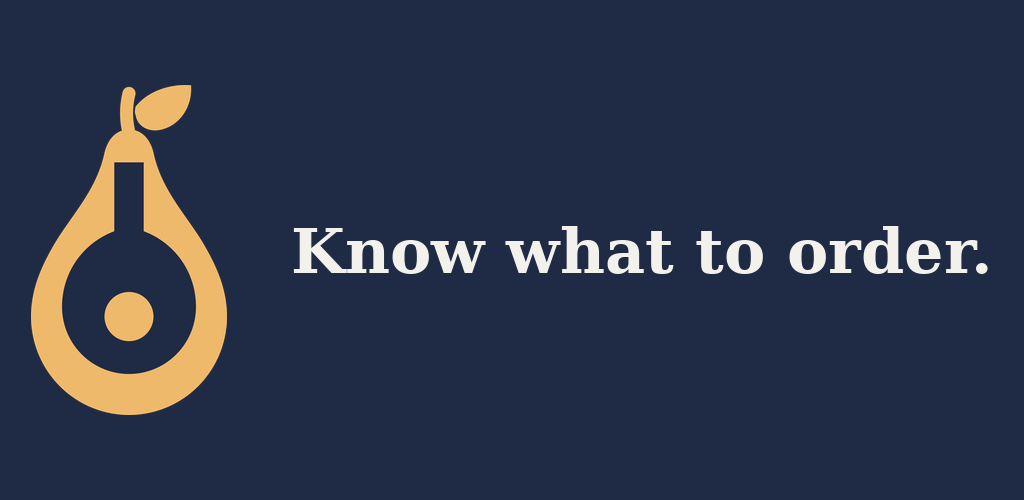
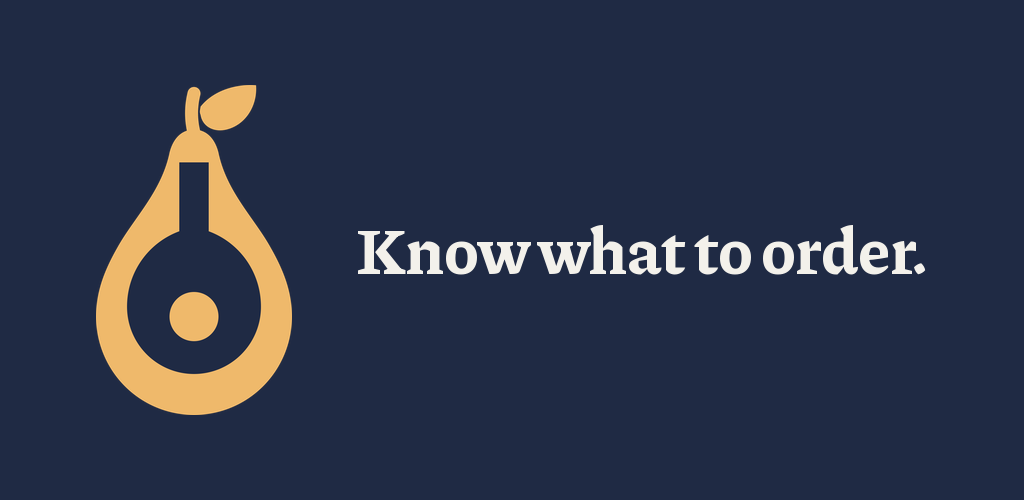
PairMe brand polish: pear tint ramp off #EFB96B + feature graphic in Piazzolla
Item 6: a 5-step pear tint ramp derived from #EFB96B mixed with white
(pear-50 #FDF8F0, 100 #FCF1E1, 200 #F9E4C7, 300 #F6D6A9, 400 #F2C789, base 500
#EFB96B), defined as --color-pear-* in the landing :root. The old peach tints
(#FFF7EC/#FFEDD6/#FFDCAB/#FFF4E4/#FFE3BC/#FFEBCE) are retired and swept from both
apps and the landing, so tinted backgrounds (selected states, chips, cards) no
longer drift per-component. Zero residual old tints.

Item 5: the Google Play feature graphic now uses Piazzolla Bold, the same
display font Desi's landing loads (--font-display), replacing the DejaVu Serif
stand-in. The store listing and the site now match.

Verified: vite build clean, app suite green, no em dashes.

Claude-Session: https://claude.ai/code/session_0119A8iN5G2gy7vmANopPWUa

Changed region(s): [[0.0312, 0.15, 0.9688, 0.84]]

diff --git a/apps/pairme-landing/index.html b/apps/pairme-landing/index.html
@@ -77,7 +77,7 @@
 <div style="font:700 21px/1.2 var(--font-body);color:#1C1C1A;margin-top:7px">Domaine Trapet</div>
 <div style="font:500 16px/1.3 var(--font-body);color:#1C1C1A;margin-top:3px">Gevrey-Chambertin</div>
 <div style="font:400 13px/1.5 var(--font-body);color:#6B6B66;margin-top:5px">pinot noir · Burgundy · $234</div>
-<div style="background:#FFF4E4;border:1px solid #EFB96B;border-radius:12px;padding:12px;margin-top:12px;display:flex;gap:12px;align-items:center">
+<div style="background:#FCF1E1;border:1px solid #EFB96B;border-radius:12px;padding:12px;margin-top:12px;display:flex;gap:12px;align-items:center">
 <button onclick="pmSay()" style="flex:none;width:44px;height:44px;border-radius:999px;border:2px solid #1F2A44;background:#fff;cursor:pointer;display:flex;align-items:center;justify-content:center" class="h2" aria-label="Play the pronunciation">
 <svg width="20" height="20" viewBox="0 0 24 24" fill="none" stroke="#1F2A44" strokeWidth="1.8" strokeLinecap="round" strokeLinejoin="round"><path d="M11 5 L6 9 H3 v6 h3 l5 4 Z"></path><path d="M15.5 8.5a5 5 0 0 1 0 7"></path><path d="M18.5 5.5a9 9 0 0 1 0 13"></path></svg>
 </button>
@@ -116,14 +116,14 @@
 </div>
 <div style="font:600 16px var(--font-display);color:#1C1C1A;margin-top:9px">What do you already love?</div>
 <div style="display:flex;flex-wrap:wrap;gap:7px;margin-top:12px">
-<span style="border:1px solid #1F2A44;background:#FFF4E4;border-radius:999px;padding:8px 13px;font:500 12.5px var(--font-body)">Burgundy</span>
-<span style="border:1px solid #1F2A44;background:#FFF4E4;border-radius:999px;padding:8px 13px;font:500 12.5px var(--font-body)">Loire whites</span>
+<span style="border:1px solid #1F2A44;background:#FCF1E1;border-radius:999px;padding:8px 13px;font:500 12.5px var(--font-body)">Burgundy</span>
+<span style="border:1px solid #1F2A44;background:#FCF1E1;border-radius:999px;padding:8px 13px;font:500 12.5px var(--font-body)">Loire whites</span>
 <span style="border:1px solid #E3E1DB;background:#fff;border-radius:999px;padding:8px 13px;font:500 12.5px var(--font-body);color:#6B6B66">Barolo</span>
 <span style="border:1px solid #E3E1DB;background:#fff;border-radius:999px;padding:8px 13px;font:500 12.5px var(--font-body);color:#6B6B66">orange wine</span>
 </div>
 <div style="font:600 10.5px var(--font-body);color:#6B6B66;letter-spacing:.07em;text-transform:uppercase;margin-top:16px">Rather not</div>
 <div style="display:flex;flex-wrap:wrap;gap:7px;margin-top:8px">
-<span style="border:1px solid #1F2A44;background:#FFF4E4;border-radius:999px;padding:8px 13px;font:500 12.5px var(--font-body)">heavy oak</span>
+<span style="border:1px solid #1F2A44;background:#FCF1E1;border-radius:999px;padding:8px 13px;font:500 12.5px var(--font-body)">heavy oak</span>
 <span style="border:1px solid #E3E1DB;background:#fff;border-radius:999px;padding:8px 13px;font:500 12.5px var(--font-body);color:#6B6B66">sweet</span>
 </div>
 </div>
@@ -174,7 +174,7 @@
 </div>
 <div style="background:#FBFAF7;border:1px solid #E3E1DB;border-radius:14px;padding:16px">
 <div style="font:600 10.5px var(--font-body);color:#6B6B66;letter-spacing:.07em;text-transform:uppercase">Starters</div>
-<div style="border:1px solid #1F2A44;background:#FFF4E4;border-radius:10px;padding:11px;margin-top:9px">
+<div style="border:1px solid #1F2A44;background:#FCF1E1;border-radius:10px;padding:11px;margin-top:9px">
 <div style="display:flex;justify-content:space-between;gap:10px">
 <span style="font:500 13.5px var(--font-body);color:#1C1C1A">Moules en cassoulette</span>
 <span style="font:400 12px var(--font-body);color:#6B6B66;flex:none">$22</span>
@@ -189,7 +189,7 @@
 <div style="font:400 11.5px/1.5 var(--font-body);color:#6B6B66;margin-top:4px">garlic parsley butter, baguette</div>
 </div>
 <div style="font:600 10.5px var(--font-body);color:#6B6B66;letter-spacing:.07em;text-transform:uppercase;margin-top:14px">Mains</div>
-<div style="border:1px solid #1F2A44;background:#FFF4E4;border-radius:10px;padding:11px;margin-top:9px">
+<div style="border:1px solid #1F2A44;background:#FCF1E1;border-radius:10px;padding:11px;margin-top:9px">
 <div style="display:flex;justify-content:space-between;gap:10px">
 <span style="font:500 13.5px var(--font-body);color:#1C1C1A">Steak frites Aquitaine</span>
 <span style="font:400 12px var(--font-body);color:#6B6B66;flex:none">$48</span>
@@ -213,7 +213,7 @@
 <div style="border:1.5px solid #1F2A44;background:#fff;border-radius:12px;padding:14px">
 <div style="display:flex;justify-content:space-between;align-items:center;gap:10px">
 <span style="font:600 10px var(--font-body);color:#8A5A18;letter-spacing:.07em;text-transform:uppercase">Suited to you</span>
-<span style="font:700 10px var(--font-body);color:#1F2A44;background:#FFE3BC;border-radius:999px;padding:4px 9px">presenting</span>
+<span style="font:700 10px var(--font-body);color:#1F2A44;background:#F9E4C7;border-radius:999px;padding:4px 9px">presenting</span>
 </div>
 <div style="display:flex;justify-content:space-between;gap:12px;align-items:flex-start;margin-top:9px">
 <div>
@@ -238,7 +238,7 @@
 </div>
 </div>
 
-<div class="pm-step" style="position:sticky;top:134px;min-height:clamp(320px,calc(100vh - 150px),520px);display:flex;align-items:center;background:#FFF7EC;border:1.5px solid #EFB96B;border-radius:20px;box-shadow:0 -2px 0 #E5A44F, 0 20px 50px -26px rgba(31,42,68,.5);overflow:hidden">
+<div class="pm-step" style="position:sticky;top:134px;min-height:clamp(320px,calc(100vh - 150px),520px);display:flex;align-items:center;background:#FDF8F0;border:1.5px solid #EFB96B;border-radius:20px;box-shadow:0 -2px 0 #E5A44F, 0 20px 50px -26px rgba(31,42,68,.5);overflow:hidden">
 <div style="width:100%;display:grid;grid-template-columns:repeat(auto-fit,minmax(280px,1fr));gap:clamp(20px,3vw,40px);padding:clamp(22px,3vw,34px)">
 <div>
 <div style="display:flex;align-items:center;gap:12px">
@@ -248,7 +248,7 @@
 <p style="margin:14px 0 0;font:400 15px/1.75 var(--font-body);color:#6B6B66;text-wrap:pretty">How to say it, what it means, why it works. Everything a sommelier knows, minus the hundreds of hours, the thousands of dollars, and the eyebrow.</p>
 </div>
 <div style="background:#fff;border:1px solid #EFB96B;border-radius:14px;padding:16px;display:flex;gap:14px;align-items:center">
-<button onclick="pmSay()" style="flex:none;width:56px;height:56px;border-radius:999px;border:2px solid #1F2A44;background:#FFF7EC;cursor:pointer;display:flex;align-items:center;justify-content:center" class="h3" aria-label="Play the pronunciation">
+<button onclick="pmSay()" style="flex:none;width:56px;height:56px;border-radius:999px;border:2px solid #1F2A44;background:#FDF8F0;cursor:pointer;display:flex;align-items:center;justify-content:center" class="h3" aria-label="Play the pronunciation">
 <svg width="25" height="25" viewBox="0 0 24 24" fill="none" stroke="#1F2A44" strokeWidth="1.8" strokeLinecap="round" strokeLinejoin="round"><path d="M11 5 L6 9 H3 v6 h3 l5 4 Z"></path><path d="M15.5 8.5a5 5 0 0 1 0 7"></path><path d="M18.5 5.5a9 9 0 0 1 0 13"></path></svg>
 </button>
 <div style="flex:1;min-width:0">
@@ -282,7 +282,7 @@
 </div>
 </div>
 
-<div id="restaurants" style="background:#FFF7EC;border-top:1px solid #FFDCAB;border-bottom:1px solid #FFDCAB;scroll-margin-top:70px">
+<div id="restaurants" style="background:#FDF8F0;border-top:1px solid #F6D6A9;border-bottom:1px solid #F6D6A9;scroll-margin-top:70px">
 <div style="max-width:1160px;margin:0 auto;padding:clamp(44px,5vw,76px) clamp(20px,4vw,48px)">
 <div style="font:600 11.5px var(--font-body);color:#8A5A18;letter-spacing:.09em;text-transform:uppercase">For restaurants</div>
 <h2 style="margin:12px 0 0;font:600 clamp(26px,3.4vw,42px)/1.15 var(--font-display);color:#1C1C1A;letter-spacing:-.015em;max-width:26ch;text-wrap:pretty">A sommelier experience for every guest, without a sommelier.</h2>
@@ -290,38 +290,38 @@
 
 <div style="display:grid;grid-template-columns:repeat(auto-fit,minmax(290px,1fr));gap:clamp(16px,2vw,22px);margin-top:clamp(28px,3vw,40px)">
 
-<div style="border:1px solid #FFDCAB;background:#fff;border-radius:16px;padding:20px">
+<div style="border:1px solid #F6D6A9;background:#fff;border-radius:16px;padding:20px">
 <div style="font:600 16px var(--font-display);color:#1C1C1A">Build the list, or hand it to us</div>
 <div style="font:400 14px/1.7 var(--font-body);color:#6B6B66;margin-top:7px;text-wrap:pretty">Type it, photograph it page by page, or send a spreadsheet. If you'd rather not touch it at all, we'll build it and send it back for your approval. Nothing goes live until you say so.</div>
 </div>
 
-<div style="border:1px solid #FFDCAB;background:#fff;border-radius:16px;padding:20px">
+<div style="border:1px solid #F6D6A9;background:#fff;border-radius:16px;padding:20px">
 <div style="font:600 16px var(--font-display);color:#1C1C1A">Every dish paired to your list</div>
 <div style="font:400 14px/1.7 var(--font-body);color:#6B6B66;margin-top:7px;text-wrap:pretty">Not generic advice. Your menu against your cellar, item by item, so the recommendation is always something you can actually pour tonight.</div>
 </div>
 
-<div style="border:1px solid #FFDCAB;background:#fff;border-radius:16px;padding:20px">
+<div style="border:1px solid #F6D6A9;background:#fff;border-radius:16px;padding:20px">
 <div style="font:600 16px var(--font-display);color:#1C1C1A">See what your distributors have</div>
 <div style="font:400 14px/1.7 var(--font-body);color:#6B6B66;margin-top:7px;text-wrap:pretty">When a dish has no good match on your list, we show you what's available locally that would fill the gap. Buying decisions with the pairing already done.</div>
 </div>
 
-<div style="border:1px solid #FFDCAB;background:#fff;border-radius:16px;padding:20px">
+<div style="border:1px solid #F6D6A9;background:#fff;border-radius:16px;padding:20px">
 <div style="font:600 16px var(--font-display);color:#1C1C1A">By the glass, by the bottle, your call</div>
 <div style="font:400 14px/1.7 var(--font-body);color:#6B6B66;margin-top:7px;text-wrap:pretty">Run it as pours, as bottles, or both. Course it if you want a glass with every plate. You set what we're allowed to suggest.</div>
 </div>
 
-<div style="border:1px solid #FFDCAB;background:#fff;border-radius:16px;padding:20px">
+<div style="border:1px solid #F6D6A9;background:#fff;border-radius:16px;padding:20px">
 <div style="font:600 16px var(--font-display);color:#1C1C1A">Feedback on all four things</div>
 <div style="font:400 14px/1.7 var(--font-body);color:#6B6B66;margin-top:7px;text-wrap:pretty">The wine, the food, the service, and the pairing, rated separately by the table that ate it. Anonymous, and specific enough to act on.</div>
 <div style="display:flex;flex-wrap:wrap;gap:7px;margin-top:12px">
 <span style="border:1px solid #E3E1DB;border-radius:999px;padding:6px 11px;font:500 11.5px var(--font-body);color:#6B6B66">Wine</span>
 <span style="border:1px solid #E3E1DB;border-radius:999px;padding:6px 11px;font:500 11.5px var(--font-body);color:#6B6B66">Food</span>
 <span style="border:1px solid #E3E1DB;border-radius:999px;padding:6px 11px;font:500 11.5px var(--font-body);color:#6B6B66">Service</span>
-<span style="border:1px solid #EFB96B;background:#FFF4E4;border-radius:999px;padding:6px 11px;font:500 11.5px var(--font-body);color:#1C1C1A">Pairing</span>
+<span style="border:1px solid #EFB96B;background:#FCF1E1;border-radius:999px;padding:6px 11px;font:500 11.5px var(--font-body);color:#1C1C1A">Pairing</span>
 </div>
 </div>
 
-<div style="border:1px solid #FFDCAB;background:#fff;border-radius:16px;padding:20px">
+<div style="border:1px solid #F6D6A9;background:#fff;border-radius:16px;padding:20px">
 <div style="font:600 16px var(--font-display);color:#1C1C1A">Be there when they come looking</div>
 <div style="font:400 14px/1.7 var(--font-body);color:#6B6B66;margin-top:7px;text-wrap:pretty">Diners search for a bottle they loved and want the dish that goes with it. When that bottle is on your list, your room is the answer.</div>
 </div>

diff --git a/apps/pairme/src/lib/state.js b/apps/pairme/src/lib/state.js
@@ -82,10 +82,10 @@ function computeOfflineOfferings(direction, chosenDishes, alreadyLoadedWineRows,
 const NAVY="#1F2A44",PEAR="#EFB96B",ORANGE="#F2993D",BLUED="#5C8A9C";
 
 const THEME={
- light:{page:"#FBFAF7",card:"#fff",ink:"#1C1C1A",muted:"#6B6B66",rule:"#E3E1DB",chrome:"#1F2A44",chromeSub:"#A5CFDD",sel:"#FFF4E4",selBd:"#EFB96B",sunken:"#F1EFEA",warnBg:"#FEF3E7",warnBd:"#F2993D",warnInk:"#C4701A",blueBg:"#F4F8F9",blue:"#5C8A9C",pearInk:"#8A5A18",accent2:"#1F2A44",hover2:"#F4F2EC"},
+ light:{page:"#FBFAF7",card:"#fff",ink:"#1C1C1A",muted:"#6B6B66",rule:"#E3E1DB",chrome:"#1F2A44",chromeSub:"#A5CFDD",sel:"#FCF1E1",selBd:"#EFB96B",sunken:"#F1EFEA",warnBg:"#FEF3E7",warnBd:"#F2993D",warnInk:"#C4701A",blueBg:"#F4F8F9",blue:"#5C8A9C",pearInk:"#8A5A18",accent2:"#1F2A44",hover2:"#F4F2EC"},
  dark:{page:"#151A29",card:"#1E2438",ink:"#F3F1EB",muted:"#9EA2AE",rule:"#303A55",chrome:"#0E1320",chromeSub:"#8FB6C4",sel:"#2E2618",selBd:"#8A6A2A",sunken:"#222941",warnBg:"#3A2A18",warnBd:"#F2993D",warnInk:"#F2993D",blueBg:"#1A2731",blue:"#7FAFC0",pearInk:"#F2C889",accent2:"#EFB96B",hover2:"#2A3350"}};
 const HC={
- light:{ink:"#000",muted:"#33332F",rule:"#8C8C86",sel:"#FFEBCE",selBd:"#8A5A18",pearInk:"#6E4610",warnInk:"#8A3E00",accent2:"#0F1729"},
+ light:{ink:"#000",muted:"#33332F",rule:"#8C8C86",sel:"#FCF1E1",selBd:"#8A5A18",pearInk:"#6E4610",warnInk:"#8A3E00",accent2:"#0F1729"},
  dark:{ink:"#FFFFFF",muted:"#DEDED8",rule:"#8E9AB5",sel:"#3D3220",selBd:"#F2C889",pearInk:"#FFDDAE",accent2:"#FFE0AE"}};
 
 const DISHES=[
@@ -632,7 +632,7 @@ export function usePairMe(opts = {}){
           // difference between the two wines is visible at a glance.
           coversChips:(o.covers&&o.covers.length)?o.covers:[],
           bd:on?"var(--pm-chrome)":"var(--pm-rule)",bw:on?"2px":"1px",bg:on?"var(--pm-sel)":"var(--pm-card)",
-          chip:on?"presenting":"tap to add",chipBg:on?"#FFE3BC":"var(--pm-sunken)",
+          chip:on?"presenting":"tap to add",chipBg:on?"#F9E4C7":"var(--pm-sunken)",
           pick:()=>patch(x=>({presentLabels:(x.presentLabels||[]).includes(w.label)?(x.presentLabels||[]).filter(y=>y!==w.label):[...(x.presentLabels||[]),w.label]})),
           speak:()=>say(w.speak),
           open:null, // no BottleBrief data for engine wines yet; TheWine.jsx only renders the Brief link when `open` is set
@@ -698,7 +698,7 @@ export function usePairMe(opts = {}){
 
         venueName:st.venueName||"Aquitaine",
 
-        rail:RAIL.map((label,i)=>({label,num:i+1,go:()=>go(i),bg:i===s?"#FFF4E4":"#fff",border:i===s?NAVY:"#E3E1DB"})),
+        rail:RAIL.map((label,i)=>({label,num:i+1,go:()=>go(i),bg:i===s?"#FCF1E1":"#fff",border:i===s?NAVY:"#E3E1DB"})),
         screenNo:s+1,screenName:RAIL[s],
         back:()=>go(Math.max(0,s-1)),fwd:()=>go(Math.min(17,s+1)),
         bodyRef:el=>{bodyEl.current=el;},
@@ -995,7 +995,7 @@ export function usePairMe(opts = {}){
           role:o.role,roleColor:o.roleColor,prod:w.prod,wine:w.wine,meta:w.meta,say:w.say,btl:w.btl,
           glass:w.glass?"$"+w.glass+" glass":"bottle only",why:o.why,covers:o.covers,
           bd:on?"var(--pm-chrome)":"var(--pm-rule)",bw:on?"2px":"1px",bg:on?"var(--pm-sel)":"var(--pm-card)",
-          chip:on?"presenting":"tap to add",chipBg:on?"#FFE3BC":"var(--pm-sunken)",
+          chip:on?"presenting":"tap to add",chipBg:on?"#F9E4C7":"var(--pm-sunken)",
           pick:()=>patch(x=>({present:x.present.includes(o.k)?x.present.filter(y=>y!==o.k):[...x.present,o.k]})),
           speak:()=>say(w.speak),
           open:()=>patch({s:16,bottle:o.k,back:11}),

diff --git a/apps/pairme-landing/styles.css b/apps/pairme-landing/styles.css
@@ -3,8 +3,11 @@
   --font-body:'Figtree',system-ui,-apple-system,'Segoe UI',sans-serif;
   --font-display:'Piazzolla',Georgia,'Times New Roman',serif;
 
-  --color-pear-50:#FFF7EC; --color-pear-100:#FFEDD6; --color-pear-300:#FFDCAB;
-  --color-pear-500:#EFB96B; --color-pear-700:#E5A44F; --color-pear-900:#8A5A18;
+  /* Pear tint ramp, all derived from the canonical #EFB96B (pear-500) mixed
+     with white. Use these for any tinted background so tints never drift. */
+  --color-pear-50:#FDF8F0; --color-pear-100:#FCF1E1; --color-pear-200:#F9E4C7;
+  --color-pear-300:#F6D6A9; --color-pear-400:#F2C789; --color-pear-500:#EFB96B;
+  --color-pear-700:#E5A44F; --color-pear-900:#8A5A18;
   --color-navy-700:#1F2A44; --color-navy-900:#132038;
   --ink:#1C1C1A; --muted:#6B6B66; --rule:#E3E1DB; --paper:#FBFAF7;
 }
@@ -29,21 +32,21 @@ input:focus-visible,textarea:focus-visible,button:focus-visible,a:focus-visible{
 .pm-btn-primary{background:#EFB96B;color:#1F2A44;border:1px solid #E5A44F}
 .pm-btn-primary:hover{background:#F7BC63}
 .pm-btn-secondary{background:transparent;color:#1F2A44;border:1.5px solid #1F2A44}
-.pm-btn-secondary:hover{background:#FFF4E4}
+.pm-btn-secondary:hover{background:#FCF1E1}
 
 .pm-chip{display:inline-flex;align-items:center;gap:7px;border:1px solid var(--rule);background:#fff;
   border-radius:999px;padding:9px 14px;font:500 12.5px var(--font-body);color:var(--ink);cursor:pointer;min-height:40px}
 .pm-chip:hover{border-color:#1F2A44}
 .pm-chip input{accent-color:#EFB96B;width:15px;height:15px;margin:0}
-.pm-chip:has(input:checked){background:#FFF4E4;border-color:#1F2A44}
+.pm-chip:has(input:checked){background:#FCF1E1;border-color:#1F2A44}
 
 textarea{width:100%;border:1px solid var(--rule);border-radius:8px;padding:12px;
   font:400 13.5px var(--font-body);background:#fff;color:var(--ink);resize:vertical}
 
 /* Hover states lifted out of the source markup. */
 .h1:hover{background:#F7BC63}
-.h2:hover{background:#FFEDD6}
-.h3:hover{background:#FFEDD6}
+.h2:hover{background:#FCF1E1}
+.h3:hover{background:#FCF1E1}
 
 /* The stacking steps need a scroll runway; collapse it where sticky would trap content. */
 @media (prefers-reduced-motion:reduce){

diff --git a/apps/pairme-landing/support.html b/apps/pairme-landing/support.html
@@ -89,7 +89,7 @@ Rather use your own mail? <a href="mailto:hello@pairme.wine">hello@pairme.wine</
 <div style="font:400 13.5px/1.7 var(--font-body);color:#6B6B66;margin-top:6px;text-wrap:pretty">Wine first, the rest is coming. If you are not drinking tonight, say so and we will still pair your food from whatever the house pours.</div>
 </div>
 
-<div style="border:1px solid #EFB96B;background:#FFF4E4;border-radius:12px;padding:15px;margin-top:26px">
+<div style="border:1px solid #EFB96B;background:#FCF1E1;border-radius:12px;padding:15px;margin-top:26px">
 <div style="font:600 13.5px var(--font-body);color:#1C1C1A">Deleting your account</div>
 <div style="font:400 13px/1.7 var(--font-body);color:#1C1C1A;margin-top:5px">Settings, then Delete account, inside the app. Or email <a href="mailto:privacy@pairme.wine">privacy@pairme.wine</a> and we do it within thirty days. Everything goes, including your history.</div>
 </div>

diff --git a/apps/pairme/src/lib/theme.css b/apps/pairme/src/lib/theme.css
@@ -1,11 +1,11 @@
 /* PairMe tokens. Light, dark and high-contrast are set as inline vars by usePairMe(). */
 :root{
-  --color-pear-50:#FFF7EC; --color-pear-100:#FFEDD6; --color-pear-300:#FFDCAB;
+  --color-pear-50:#FDF8F0; --color-pear-100:#FCF1E1; --color-pear-300:#F6D6A9;
   --color-pear-500:#EFB96B; --color-pear-700:#E5A44F; --color-pear-900:#8A5A18;
 
   --pm-page:#FBFAF7; --pm-card:#fff; --pm-ink:#1C1C1A; --pm-muted:#6B6B66; --pm-rule:#E3E1DB;
   --pm-chrome:#1F2A44; --pm-chromeSub:#A5CFDD;
-  --pm-sel:#FFF4E4; --pm-selBd:#EFB96B; --pm-sunken:#F1EFEA;
+  --pm-sel:#FCF1E1; --pm-selBd:#EFB96B; --pm-sunken:#F1EFEA;
   --pm-warnBg:#FEF3E7; --pm-warnBd:#F2993D; --pm-warnInk:#C4701A;
   --pm-blueBg:#F4F8F9; --pm-blue:#5C8A9C; --pm-pearInk:#8A5A18;
   --pm-dish:13.5px; --pm-desc:11.5px; --pm-sec:11px; --pm-weight:500;

diff --git a/apps/pairme/src/screens/EntryScreen.jsx b/apps/pairme/src/screens/EntryScreen.jsx
@@ -53,7 +53,7 @@ const COLORS = {
   card: '#fff',
   rule: '#E3E1DB',
   chrome: '#1F2A44',
-  sel: '#FFF4E4',
+  sel: '#FCF1E1',
   selBd: '#EFB96B',
   accent: '#EFB96B',
   accentBd: '#E5A44F',

diff --git a/apps/pairme/public/brand/README.md b/apps/pairme/public/brand/README.md
@@ -22,6 +22,21 @@ Retired and swept from both apps + the landing: `#E8D24A` (old token), `#F8C800`
 (AI asset gold), `#FFCC7D` (old landing pear). `#EFB96B` clears ~7.6:1 with navy
 text, so the primary Present button passes AA + AAA for large text.
 
-Follow-up (Desi, optional): the lighter pear TINT ramp (`--color-pear-50/100/300`
-and the cream selected-states `#FFF4E4`/`#FFE3BC`) still carries its old peach
-steps. They harmonise with `#EFB96B` but were not regenerated from it.
+## Pear tint ramp (regenerated from #EFB96B)
+Five tint steps plus the base, all `#EFB96B` mixed with white, so tinted
+backgrounds never drift. Use these everywhere a tinted background appears:
+
+  pear-50  #FDF8F0
+  pear-100 #FCF1E1
+  pear-200 #F9E4C7
+  pear-300 #F6D6A9
+  pear-400 #F2C789
+  pear-500 #EFB96B  (base)
+
+The old peach tints (`#FFF7EC/#FFEDD6/#FFDCAB/#FFF4E4/#FFE3BC/#FFEBCE`) are
+retired and swept from both apps. Defined as `--color-pear-*` in the landing
+:root; the diner app's theme carries the same values.
+
+## Feature graphic typeface
+Uses Piazzolla Bold - the same display font Desi's landing loads
+(`--font-display:'Piazzolla'`). The DejaVu Serif stand-in is gone.
